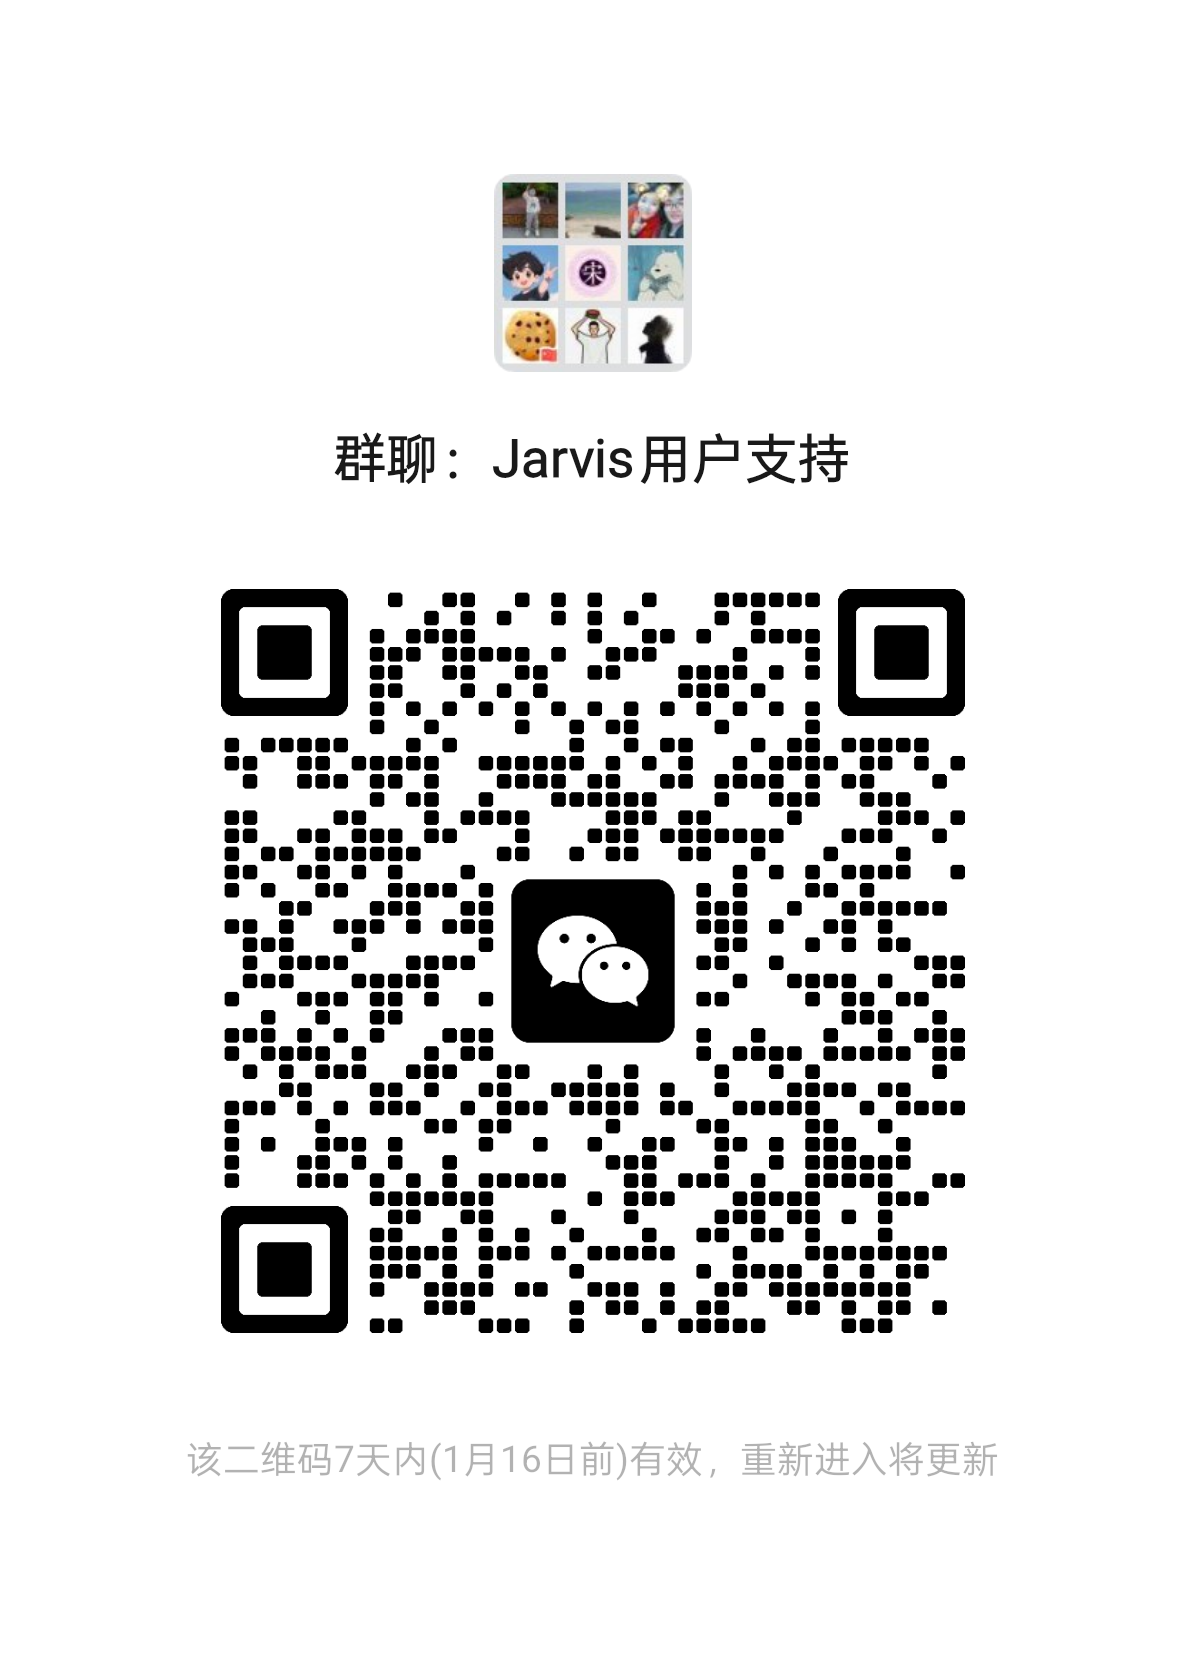
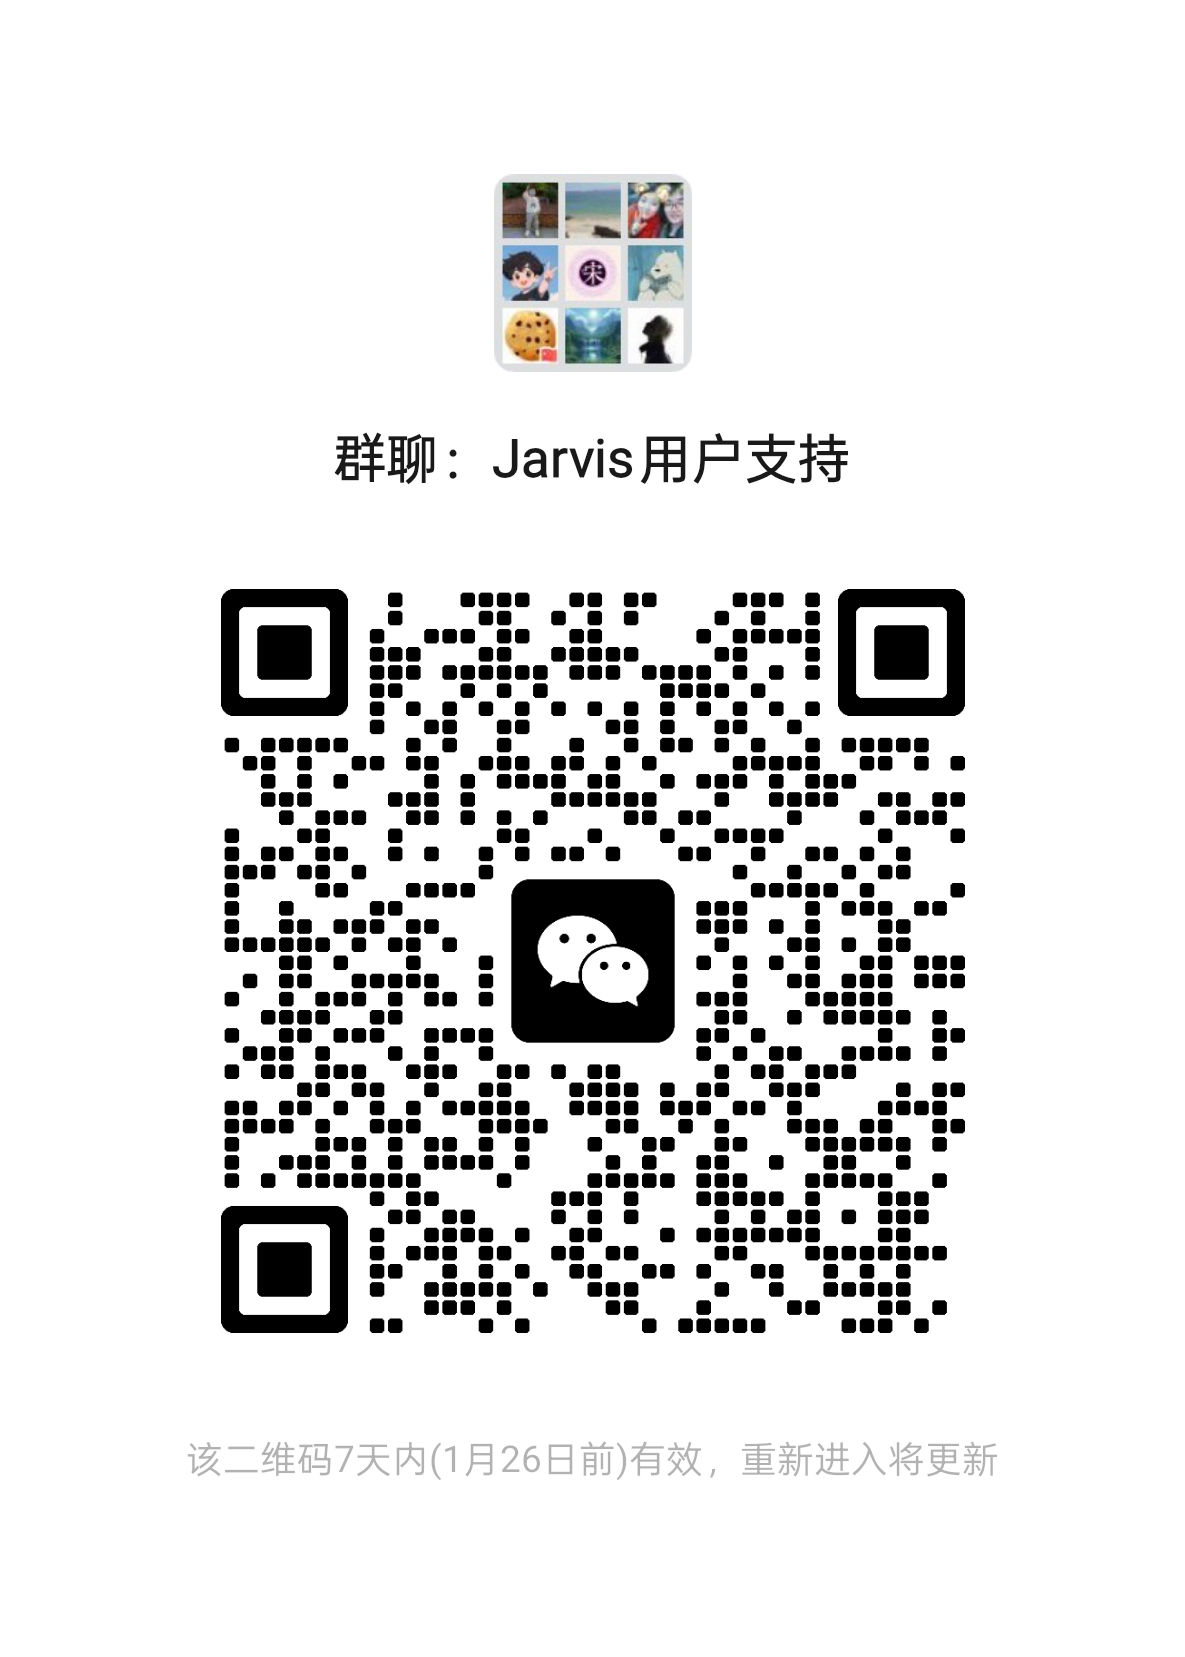
docs(release): 更新发布说明文档 v1.2.1
新增规则系统增强功能，包括规则共享机制、中心规则仓库、灵活引用方式和规则加载优先级体系。新增@触发的内置快捷命令系统，支持自动补全和快速执行。扩展文档体系，新增规则系统介绍和5个最佳实践文档。修复Git工具重复询问问题，优化上下文压缩策略，重构输出系统移除硬编码背景色。

diff --git a/ReleaseNote.md b/ReleaseNote.md
@@ -1,4 +1,88 @@
-### Release Note - v1.2.0 (2026-01-18)
+### Release Note - v1.2.1 (2026-01-19)
+
+#### **🚀 新功能**
+
+- **🎯 规则系统增强**
+  - **规则共享机制**：新增规则共享功能，支持将本地规则分享到中心规则仓库，实现跨项目规则复用
+  - **中心规则仓库**：支持配置中心规则仓库（Git 仓库或本地目录），自动每日更新检查，最高优先级加载
+  - **规则加载优先级**：建立完整的规则加载优先级体系（中心仓库 → 项目规则 → 配置目录 → 全局规则 → 内置规则）
+  - **灵活引用方式**：支持通过索引引用（如 `clean_code`）和前缀引用（如 `project:architecture_design/solid`），支持相对路径
+- **🎯 内置快捷命令**
+  - **@ 触发机制**：新增 @ 触发的内置快捷命令系统，支持自动补全和快速执行
+  - **命令类型扩展**：区分提示词模板命令（如 @Web、@Dev）和内置命令标记（如 @Summary、@Clear）
+  - **统一数据源**：在 `BUILTIN_COMMANDS` 常量中统一管理内置命令列表，确保 prompt_toolkit 和 fzf 的补全列表一致
+  - **命令处理逻辑**：新增 `builtin_input_handler` 模块，支持内置命令的立即执行和特殊处理
+- **🎯 文档体系扩展**
+  - **Jarvis规则系统介绍**：新增完整的规则系统介绍文档（516行），涵盖概述、类型来源、工作原理、扩展性等
+
+  - **最佳实践文档**：新增 5 个最佳实践文档（1500+ 行），包括 jcad多feature并行开发、jca交互式开发、规则使用、引入CodeAgent和Agent等
+
+  - **规则开发指南**：新增添加内置快捷命令规则（178行）和利用规则增加新规则（448行），指导用户扩展规则系统
+
+#### **📌 修复**
+
+- **🔧 Git 工具修复**
+  - **重复询问修复**：添加全局标记避免在同一流程中重复询问用户是否添加新文件/二进制文件/大代码
+  - **git add 优化**：将 `git add .` 改为 `git add -A`，确保包含已删除文件的变更，避免遗漏
+- **🎯 上下文压缩策略调整**
+  - **优先保留最近消息**：调整滑动窗口压缩策略，优先保留最近的消息，提升上下文相关性
+  - **配置更新**：更新上下文压缩相关配置，优化压缩效果
+
+#### **🔧 优化与重构**
+
+- **🎯 输出系统优化**
+  - **移除硬编码背景色**：移除所有硬编码的背景色配置，使用终端默认背景色，提升兼容性
+  - **颜色方案优化**：调整输出颜色方案，使用更柔和的标准颜色（如 bright_red、bright_green 等）
+  - **代码精简**：大幅精简输出系统代码（-200行），移除冗余的 `styles` 和 `header_styles` 字典
+- **🎯 规则管理系统重构**
+  - **规则管理器增强**：大幅重构规则管理器代码（+250行），优化规则加载、合并和注入逻辑
+  - **规则共享管理器**：新增规则共享管理器模块（+177行），支持规则分享和中心仓库管理
+  - **规则加载优化**：优化规则加载性能，支持动态规则注入和优先级管理
+- **🎯 版本发布规则增强**
+  - **wechat.png 检查机制**：新增 wechat.png 文件修改时间检查（<7天），确保宣传材料时效性
+  - **流程优化**：完善版本发布流程，增加必要的检查点和验证步骤
+
+#### **📚 文档更新**
+
+- **🎯 最佳实践文档**
+  - **规则系统介绍**：完整的规则系统概述、类型来源、工作原理和扩展性说明（516行）
+  - **使用jcad进行多feature并行开发**：详细介绍使用 jcad 进行多 feature 并行开发的方法（179行）
+  - **使用jca进行交互式代码开发**：交互式代码开发指南（122行）
+  - **利用规则增加新的规则**：规则开发指南（448行）
+  - **利用规则快速引入MCP、SKILLS**：MCP 和 Skills 引入指南（367行）
+  - **在项目中引入CodeAgent和Agent**：CodeAgent 和 Agent 集成指南（180行）
+  - **规则使用最佳实践**：规则使用规范和最佳实践（526行）
+- **🎯 技术文档更新**
+  - **上下文压缩文档**：更新上下文压缩流程和策略文档，反映最新的压缩策略
+  - **核心概念与架构**：更新核心概念与架构文档（+17行）
+- **🎯 其他更新**
+  - **wechat.png 更新**：更新项目宣传图片，保持时效性
+
+本次更新是一次**规则系统增强与用户体验优化**的 patch 版本。核心亮点包括：
+
+**🎯 三大核心功能：**
+
+1. **规则系统增强**：新增规则共享机制、中心规则仓库、灵活引用方式，极大提升规则的复用性和扩展性
+
+2. **内置快捷命令**：新增 @ 触发的内置快捷命令系统，提升交互效率和用户体验
+
+3. **文档体系扩展**：新增 7 个文档（2500+ 行），涵盖规则系统、最佳实践、开发指南等
+
+**其他重要改进：**
+
+- Git 工具修复，解决重复询问和文件遗漏问题
+- 上下文压缩策略优化，优先保留最近消息
+- 输出系统重构，移除硬编码背景色，提升兼容性
+- 规则管理系统大幅重构，优化加载和管理逻辑
+
+**技术亮点：**
+
+- **规则系统**：共享机制、中心仓库、优先级体系、灵活引用
+- **快捷命令**：@触发、自动补全、统一数据源、命令处理
+- **文档体系**：2500+行新增文档，覆盖规则系统、最佳实践、开发指南
+- **用户体验**：输出优化、输入优化、Git修复、压缩策略调整
+
+---
 
 #### **🚀 新功能**
 
@@ -34,6 +118,7 @@
 
 - **🎯 上下文压缩系统文档**
   - **核心概念与架构文档**：在 jarvis_book 中添加上下文压缩系统完整说明（+209行），包括设计理念、压缩策略层次、触发机制等
+
   - **实现文档新增**：新增 `docs/technical/implementation/context_compression_flow.md`（346行）和 `context_compression_strategies.md`（337行），详细说明压缩流程和策略实现
   - **技术文档体系**：新增 `docs/technical/README.md` 和 `docs/technical/implementation/README.md`，建立技术文档索引体系
 
@@ -42,6 +127,7 @@
 **🎯 两大核心功能：**
 
 1. **上下文压缩系统**：实现多层次渐进式压缩策略，支持智能任务类型识别和关键信息保留，确保 Agent 长期运行时的上下文管理能力
+
 2. **代码质量工具切换**：从 pylint 迁移到 ruff，提升代码检查速度和准确性，简化开发环境配置
 
 **其他重要改进：**
@@ -97,7 +183,9 @@
 **🎯 三大核心改进：**
 
 1. **安全规则增强**：新增报告文件输出要求和任务拆分强制要求，提升安全分析任务的规范性和可追溯性
+
 2. **工具调用修复**：修复工具调用后的处理逻辑，避免执行流程混乱，增强工具调用的稳定性和安全性
+
 3. **配置架构重构**：大幅精简配置体系，简化配置获取逻辑，降低配置复杂度
 
 **其他重要改进：**
@@ -170,7 +258,9 @@
 **🎯 三大核心功能：**
 
 1. **Go2Rust 转译规则**：新增完整的 Go 到 Rust 转译规则，提供多层级任务管理、并发模型映射、类型系统映射和 TDD 开发原则
+
 2. **自助配置规则**：新增自助配置规则，支持通过自然语言智能修改配置文件，提升配置管理的便捷性
+
 3. **功能对齐验证**：新增 C2Rust 功能对齐验证模块，支持大规模代码分析和迭代优化，确保转译质量
 
 **其他重要改进：**
@@ -250,7 +340,9 @@
 **🎯 四大核心改进：**
 
 1. **规则体系重构**：建立规范化的规则文件组织结构，新增架构设计、开发工具、UI设计、安全分析等六大类规则
+
 2. **Agent 核心重构**：增强规则管理能力，简化代码逻辑，优化平台功能，提升系统整体可维护性
+
 3. **系统工具增强**：JCK 系统工具检查和工具注册表功能显著增强，提升系统检测和管理能力
 4. **文档体系完善**：更新版本发布规则和使用指南，提供更清晰的指导
 
@@ -322,7 +414,9 @@
 **🎯 四大核心改进：**
 
 1. **ARCHER 工作流重构**：将工作流从 IIRIPER 升级为 ARCHER 模式，提供更灵活、更高效的执行策略
+
 2. **Token 限制统一**：统一 token 限制计算逻辑，提升系统一致性和准确性
+
 3. **模型配置增强**：支持命令行指定模型组，提升配置灵活性
 4. **文档体系完善**：完善工作流、规则配置和 Rule 系统文档，提供更全面的指导
 
@@ -390,7 +484,9 @@
 **🎯 三大核心改进：**
 
 1. **规则加载工具**：新增动态规则加载能力，支持运行时加载和渲染规则文件，提升灵活性
+
 2. **技能开发规范**：建立完整的技能开发规范体系，指导开发者正确开发和注册技能
+
 3. **逻辑修复与优化**：修复任务分析器和安装脚本的逻辑问题，优化规则目录结构
 
 **其他重要改进：**
@@ -443,7 +539,9 @@
   - **规则列表更新**：更新 `builtin/rules/builtin_rules.md`，新增架构设计、开发流程、代码质量等分类，提供更清晰的规则索引
 - **新增最佳实践文档**
   - **JCAD 最佳实践**：新增 `docs/best_practices/jcad最佳实践.md`，详细说明代码审查代理的最佳实践，包括使用场景、配置方法、性能优化等
+
   - **规则最佳实践**：新增 `docs/best_practices/rules_best_practices.md`，提供规则编写的完整指南，包括规则设计原则、常见错误、维护建议等
+
 - **新增对比文档**
   - **Jarvis vs Codex CLI**：新增 `docs/compare/jarvis_vs_codex_cli.md`，详细对比 Jarvis 和 Codex CLI 的功能差异、优缺点分析，帮助用户选择合适的工具
 - **删除过时文档**
@@ -461,7 +559,9 @@
     **🎯 四大核心改进：**
 
 1. **系统工具检查**：新增 jarvis_jck 模块，提供系统工具检查功能，支持自定义检查规则和配置化管理
+
 2. **架构设计规范**：新增 SOLID 设计原则、整洁架构、SDD 等架构设计规范，指导构建高质量的可维护架构
+
 3. **开发规范体系**：完善规则编写规范，提供完整的规则模板和最佳实践
 4. **最佳实践文档**：新增 JCAD 最佳实践、规则最佳实践等文档，提升开发效率
    **其他重要改进：**
@@ -591,7 +691,9 @@
 **🎯 四大核心功能：**
 
 1. **方法论作用域管理**：支持项目级和全局级方法论管理，提供更灵活的方法论组织方式
+
 2. **输出系统增强**：新增 7 种输出类型，丰富输出样式和语义，提升用户体验
+
 3. **快速配置工具增强**：支持交互式输入、默认模型选择和自动创建模型组，简化配置流程
 4. **代码审查增强**：支持自定义构建验证器和 Jinja2 模板语法，提供更灵活的代码审查能力
 
@@ -719,7 +821,9 @@
 **🎯 四大核心功能：**
 
 1. **Tmux 集成**：完整的 tmux 包装器模块，提供统一的会话管理、窗口和面板操作接口，支持智能面板分配和布局管理
+
 2. **批量任务执行**：支持在 tmux 环境中并行执行多个独立任务，自动创建独立面板并监控执行状态，显著提升任务执行效率
+
 3. **Git Worktree 支持**：在独立分支上进行开发，支持自动创建和合并 worktree 分支，提供更好的代码开发隔离和管理能力
 4. **CodeAgent 虚拟终端**：代码代理新增虚拟终端工具支持，允许执行交互式操作，扩展代码代理的能力边界
 
@@ -1387,7 +1491,9 @@
 **升级建议**：
 
 1. **备份配置**：升级前请备份 `~/.jarvis/config.yaml` 配置文件
+
 2. **更新配置**：运行 `jvs -I` 交互式配置向导，系统会自动检测并提示需要更新的配置项
+
 3. **测试验证**：在测试环境中先验证升级，确保所有功能正常工作后再应用到生产环境
 
 **技术亮点**：
@@ -1514,6 +1620,7 @@
   - **多处匹配智能确认与预览**：当 search 文本在文件中存在多处匹配时，工具会自动检测并生成匹配位置预览（包含行号、列号及前后各3行上下文），要求 Agent 确认是否继续替换所有匹配，避免误替换
   - **移除 count 参数**：不再支持通过 count 参数控制替换次数，改为通过多处匹配检测和确认机制来确保替换的准确性
   - **增强的错误提示**：当搜索失败时，提供详细的错误信息和修复建议，包括建议使用 `read_code` 工具重新读取文件、提示文件可能已被更新、建议在 search 中包含足够的上下文等
+
   - **重要提示**：search 必须提供足够的上下文来唯一定位目标位置，建议包含目标代码的前后几行上下文、函数签名或唯一标识符，避免匹配到错误的位置
   - **统一编辑工具**：移除 `edit_file_free` 和 `edit_file_structured`，统一为 `edit_file` 工具，简化使用方式
 
@@ -1616,6 +1723,7 @@
   - 统一文件编辑工具命名并更新匹配策略描述
   - 更新规则系统说明，添加中心规则仓库和规则分享功能说明
   - 更新 C2Rust 转译工具链说明，添加 cargo test 警告检测、自动修复步骤、修复范围要求、并发问题排查指南等
+
   - 完善 Git 变更上下文支持说明
 
 - **使用指南更新**
@@ -1711,6 +1819,7 @@
 
 - **README 全面更新**
   - 新增完整的 Docker 安装和使用指南，包括镜像拉取、docker-compose 使用、非 root 用户配置等
+
   - 优化文档格式，统一列表符号和段落间距
   - 更新工作流示例，强调 LSP 客户端和结构化编辑工具的使用
   - 补充 Windows 用户使用 Docker 的注意事项
@@ -2309,6 +2418,7 @@
 - 更新核心概念与架构文档，精简 MCP 工具配置细节，新增工具加载与兼容性概览
 - 更新使用指南，移除记忆管理技巧重复内容，聚焦高级用法
 - 更新附录配置表，补充新增配置项说明与默认值调整
+
 - 新增高级主题章节，详细介绍补丁格式控制配置的使用方法与注意事项
 
 #### **其他 (Miscellaneous)**
@@ -2420,6 +2530,7 @@
 - 更新功能扩展章节，补充 MCP 工具配置、平台加载顺序、协议版本说明
 - 更新高级主题章节，补充事件常量、输出处理器、记忆系统使用示例
 - 更新配置文件附录，新增 JARVIS_PRETTY_OUTPUT、JARVIS_FORCE_SAVE_MEMORY 等默认值调整
+
 - 更新统计工具使用说明，补充 remove、--agg、--width、--height 等参数用法
 - 更新方法论模板，优化“可复用解决流程”表述，避免绑定特定上下文
 - 更新代码注释与 docstring，统一使用英文保持项目一致性
